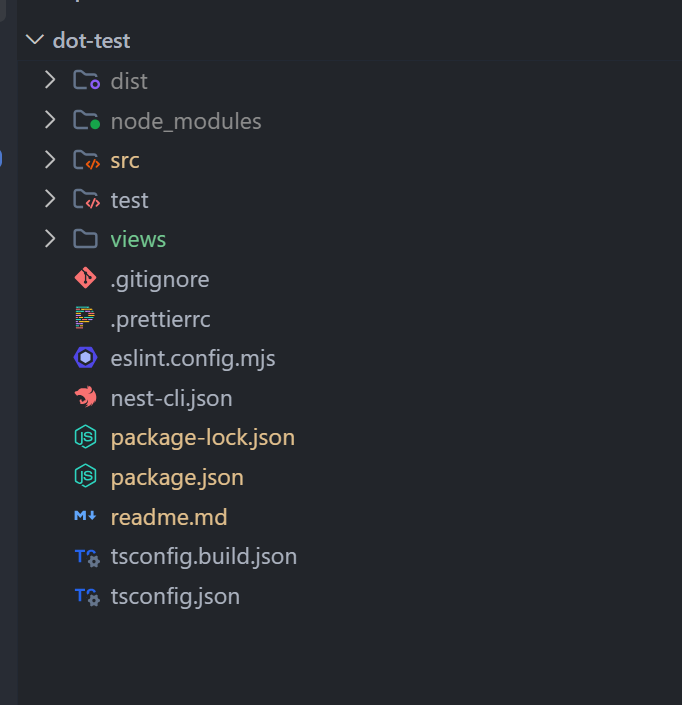
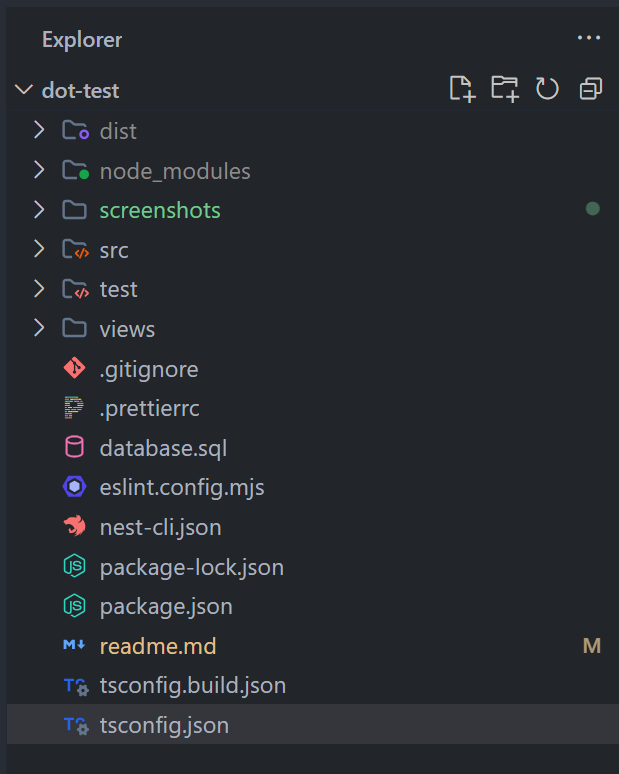
readme

diff --git a/readme.md b/readme.md
@@ -1,19 +1,74 @@
-**Documentasi Codingan**
+**Deksripsi Project**
 
-untuk melakukan clone github ini lakukan 
+#DOT Test - Admin Panel
+
+Project admin panel sederhana menggunakan NestJS (MVC) dan MySQL
+
+Fitur :
+
+- Login
+- Category CRUD
+- Product CRUD
+- Product Detail
+- Product Search
+
+Relasi database:
+`**Category memiliki banyak product (One-to-Many)**
+
+**Database Design
+ERD :**
+
+<img src="screenshots/relasi.png" alt="Relasi Database" width="300"/>
+
+
+**Tech Stack**
+
+- NestJS 11
+- TypeScript
+- MySQL
+- mysql2
+- EKS
+- Express
+
+**Structure Folder**
+
+<img src="screenshots/struktur.png" alt="struktur" width="300"/>
+
+
+
+**Cara Install**
+
+Clone Repository
+`git clone https://github.com/mineninjaz/dot-test.git
+`
+
+Install depedency
+`npm install
+`
+
+karena sudah ada  `package.json` & `package-lock.json`  jadi tinggal npm install aja
+
+Run application
+`npm run start:dev
+`
+
+
+**SET-UP  Database**
+
+1. akses `localhost:/phpmyadmin`
+2. Import file SQL
+   Didalam folder `Dot-test` terdapat  file  `database.sql  ` tinggal import saja file ini
+3. Ubah konfigurasi database
+   `src/database/database.ts`
 
 ```
-git clone https://github.com/mineninjaz/dot-test.git
+import mysql from 'mysql2/promise';
+
+export const db = mysql.createPool({
+    host: 'localhost',
+    user: 'root',
+    password: '',
+    database: 'dot_test',  // Bagian Ini yang di ganti ya
+
+});
 ```
-
-setelah beberapa saat setelah di clone langsung saja untuk melakukan running, atau kalian bisa melihat documentasi penggunaan nestJS  dibagian Compile and Run the project
-
-`npm run start:dev`
-
-Pastikan juga [Nest] Application is running ,  setelah itu pastikan kita belajar strukturnya terlebih dahulu seperti  struktur file dibawah ini
-
-Jika sudah lanjutkan dengan membuat folder   `└── views`  nya dan kira kira struktur folder nya akan jadi seperti ini
-
-#Structure Folder
-
-<img src="screenshots/struktur.png" alt="structure Folder" width="300"/>